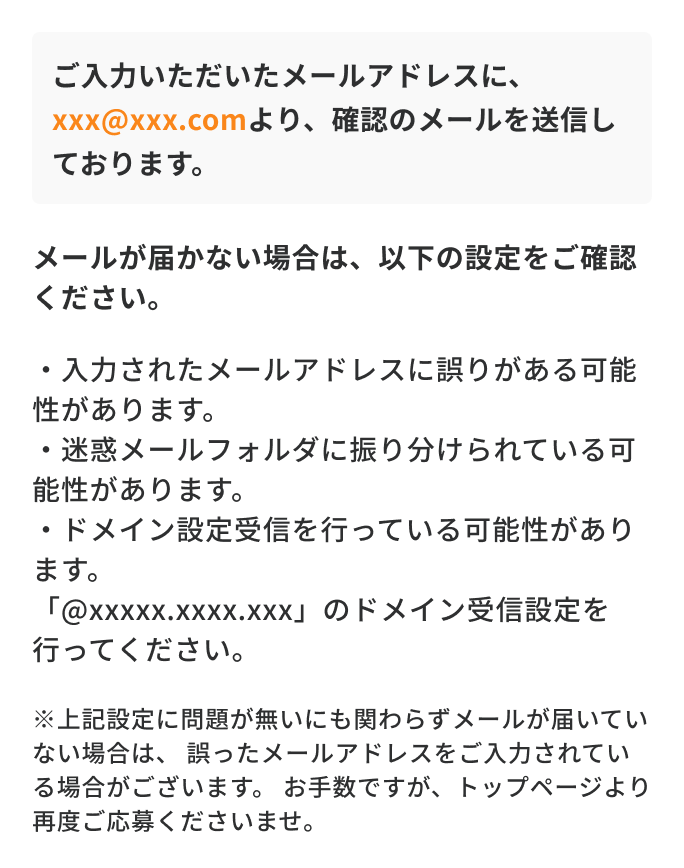
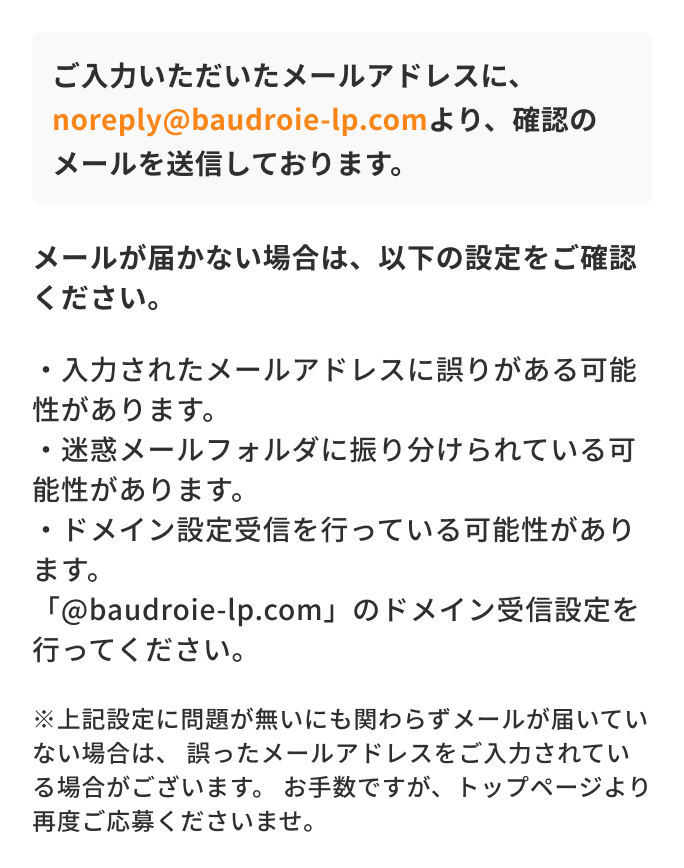
baudroie lp fixed

Changed region(s): [[0.0614, 0.1244, 0.8904, 0.2177], [0.1228, 0.6843, 0.9211, 0.7154]]

diff --git a/src/html/thanks.html b/src/html/thanks.html
@@ -2,23 +2,35 @@
 <html class="no-js" lang="ja">
 
 <head>
+    <!-- Google Tag Manager -->
+    <script>(function(w,d,s,l,i){w[l]=w[l]||[];w[l].push({'gtm.start':
+    new Date().getTime(),event:'gtm.js'});var f=d.getElementsByTagName(s)[0],
+    j=d.createElement(s),dl=l!='dataLayer'?'&l='+l:'';j.async=true;j.src=
+    'https://www.googletagmanager.com/gtm.js?id='+i+dl;f.parentNode.insertBefore(j,f);
+    })(window,document,'script','dataLayer','GTM-TC9M4JZW');</script>
+    <!-- End Google Tag Manager -->
     <meta charset="utf-8">
     <meta http-equiv="X-UA-Compatible" content="IE=edge">
     <meta name="format-detection" content="telephone=no">
     <meta name="viewport" content="width=device-width, initial-scale=1">
     <meta name="keywords" content="">
-    <meta name="description" content="">
-    <title>Baudroie</title>
-    <meta property="og:title" content="">
+    <meta name="description" content="【未経験入社99％！エンジニア募集】株式会社ボードルアのエンジニア採用特設サイト。社員の99%が未経験スタート！20代が活躍できる充実の研修制度と、年間休日125日以上、月平均残業9hなど働きやすい環境が整っています。">
+    <title>20代・未経験からITエンジニアへ！株式会社ボードルア 採用特設サイト</title>
+    <meta property="og:title" content="20代・未経験からITエンジニアへ！株式会社ボードルア 採用特設サイト">
     <meta property="og:url" content="">
     <meta property="og:image" content="./assets/img/ogp.png">
-    <meta property="og:description" content="">
+    <meta property="og:description" content="【未経験入社99％！エンジニア募集】株式会社ボードルアのエンジニア採用特設サイト。社員の99%が未経験スタート！20代が活躍できる充実の研修制度と、年間休日125日以上、月平均残業9hなど働きやすい環境が整っています。">
     <meta property="og:type" content="website">
     <meta name="twitter:card" content="summary_large_image">
     <!--#include virtual="./style.html" -->
 </head>
 
 <body>
+    <!-- Google Tag Manager (noscript) -->
+    <noscript><iframe src="https://www.googletagmanager.com/ns.html?id=GTM-TC9M4JZW"
+    height="0" width="0" style="display:none;visibility:hidden"></iframe></noscript>
+    <!-- End Google Tag Manager (noscript) -->
+
     <!--#include virtual="./header.html" -->
 
     <div class="c-sidebar">
@@ -28,43 +40,43 @@
                 <ul class="c-contents-menu__list">
                     <li class="c-contents-menu__item">
                         <span class="c-contents-menu__icon"></span>
-                        <a href="#data" class="c-contents-menu__link">
+                        <a href="./#data" class="c-contents-menu__link">
                             数字で見るボードルアの働く社員
                         </a>
                     </li>
                     <li class="c-contents-menu__item">
                         <span class="c-contents-menu__icon"></span>
-                        <a href="#appeal" class="c-contents-menu__link">
-                            数字で見るボードルアの働く社員
+                        <a href="./#appeal" class="c-contents-menu__link">
+                            ボードルアで働く魅力
                         </a>
                     </li>
                     <li class="c-contents-menu__item">
                         <span class="c-contents-menu__icon"></span>
-                        <a href="#training" class="c-contents-menu__link">
+                        <a href="./#training" class="c-contents-menu__link">
                             未経験から活躍できる研修体制
                         </a>
                     </li>
                     <li class="c-contents-menu__item">
                         <span class="c-contents-menu__icon"></span>
-                        <a href="#interview" class="c-contents-menu__link">
+                        <a href="./#interview" class="c-contents-menu__link">
                             社員インタビュー
                         </a>
                     </li>
                     <li class="c-contents-menu__item">
                         <span class="c-contents-menu__icon"></span>
-                        <a href="#environment" class="c-contents-menu__link">
+                        <a href="./#environment" class="c-contents-menu__link">
                             ボードルアの働きやすい環境
                         </a>
                     </li>
                     <li class="c-contents-menu__item">
                         <span class="c-contents-menu__icon"></span>
-                        <a href="#flow" class="c-contents-menu__link">
+                        <a href="./#flow" class="c-contents-menu__link">
                             採用フロー
                         </a>
                     </li>
                     <li class="c-contents-menu__item">
                         <span class="c-contents-menu__icon"></span>
-                        <a href="#form" class="c-contents-menu__link">
+                        <a href="./#form" class="c-contents-menu__link">
                             応募フォーム
                         </a>
                     </li>
@@ -77,7 +89,7 @@
                 <div class="g-nav_line">
                     <p class="g-nav_line__tit"><img src="./assets/img/img_main_btn.png" alt="未経験OK！こちらからご応募ください！">
                     </p>
-                    <a href="#form" target="_blank" class="g-nav_line__btn">
+                    <a href="./#form" target="_blank" class="g-nav_line__btn">
                         <span>今すぐエントリーする</span>
                     </a>
                 </div>
@@ -132,7 +144,7 @@
                     </div>
                     <div class="g-nav_line">
                         <a href="./" class="g-nav_line__btn">
-                            <span>今すぐエントリーする</span>
+                            <span>トップページに戻る</span>
                         </a>
                     </div>
                 </section>

diff --git a/src/html/index.html b/src/html/index.html
@@ -2,23 +2,35 @@
 <html class="no-js" lang="ja">
 
 <head>
+    <!-- Google Tag Manager -->
+    <script>(function(w,d,s,l,i){w[l]=w[l]||[];w[l].push({'gtm.start':
+    new Date().getTime(),event:'gtm.js'});var f=d.getElementsByTagName(s)[0],
+    j=d.createElement(s),dl=l!='dataLayer'?'&l='+l:'';j.async=true;j.src=
+    'https://www.googletagmanager.com/gtm.js?id='+i+dl;f.parentNode.insertBefore(j,f);
+    })(window,document,'script','dataLayer','GTM-TC9M4JZW');</script>
+    <!-- End Google Tag Manager -->
     <meta charset="utf-8">
     <meta http-equiv="X-UA-Compatible" content="IE=edge">
     <meta name="format-detection" content="telephone=no">
     <meta name="viewport" content="width=device-width, initial-scale=1">
     <meta name="keywords" content="">
-    <meta name="description" content="">
-    <title>Baudroie</title>
-    <meta property="og:title" content="">
+    <meta name="description" content="【未経験入社99％！エンジニア募集】株式会社ボードルアのエンジニア採用特設サイト。社員の99%が未経験スタート！20代が活躍できる充実の研修制度と、年間休日125日以上、月平均残業9hなど働きやすい環境が整っています。">
+    <title>20代・未経験からITエンジニアへ！株式会社ボードルア 採用特設サイト</title>
+    <meta property="og:title" content="20代・未経験からITエンジニアへ！株式会社ボードルア 採用特設サイト">
     <meta property="og:url" content="">
     <meta property="og:image" content="./assets/img/ogp.png">
-    <meta property="og:description" content="">
+    <meta property="og:description" content="【未経験入社99％！エンジニア募集】株式会社ボードルアのエンジニア採用特設サイト。社員の99%が未経験スタート！20代が活躍できる充実の研修制度と、年間休日125日以上、月平均残業9hなど働きやすい環境が整っています。">
     <meta property="og:type" content="website">
     <meta name="twitter:card" content="summary_large_image">
     <!--#include virtual="./style.html" -->
 </head>
 
 <body>
+    <!-- Google Tag Manager (noscript) -->
+    <noscript><iframe src="https://www.googletagmanager.com/ns.html?id=GTM-TC9M4JZW"
+    height="0" width="0" style="display:none;visibility:hidden"></iframe></noscript>
+    <!-- End Google Tag Manager (noscript) -->
+     
     <!--#include virtual="./header.html" -->
 
     <div class="c-sidebar">
@@ -35,7 +47,7 @@
                     <li class="c-contents-menu__item">
                         <span class="c-contents-menu__icon"></span>
                         <a href="#appeal" class="c-contents-menu__link">
-                            数字で見るボードルアの働く社員
+                            ボードルアで働く魅力
                         </a>
                     </li>
                     <li class="c-contents-menu__item">
@@ -95,14 +107,6 @@
 
     <div id="wrapper" class="p-wrapper">
         <div class="p-body">
-
-            <div class="float-btns show_sp">
-                <div class="g-nav_line">
-                    <a href="#form" target="_blank" class="g-nav_line__btn">
-                        <span>今すぐエントリーする</span>
-                    </a>
-                </div>
-            </div>
 
             <main class="page-main">
                 <div class="header_mo show_sp">
@@ -206,16 +210,14 @@
                             <img src="./assets/img/enviroment01.png" alt="年間休日125日以上">
                         </div>
                         <p class="p-envoriment__desc">
-                            <img src="./assets/img/enviroment_desc.png" alt="さらに、ボードルアでは
-イベントや部活動を通じて
-社員同士のつながりも大切にしています！">
+                            <img src="./assets/img/enviroment_desc.png" alt="さらに、ボードルアではイベントや部活動を通じて社員同士のつながりも大切にしています！">
                         </p>
                     </div>
                     <div class="p-envoriment__event">
-                        <img src="./assets/img/enviroment02.png" alt="circle">
+                        <img src="./assets/img/enviroment03.png" alt="event">
                     </div>
                     <div class="p-envoriment__circle">
-                        <img src="./assets/img/enviroment03.png" alt="event">
+                        <img src="./assets/img/enviroment02.png" alt="circle">
                     </div>
 
                 </section>

diff --git a/src/scss/assets/css/_pages/_top.scss b/src/scss/assets/css/_pages/_top.scss
@@ -150,26 +150,6 @@ button {
     }
 }
 
-.float-btns {
-    @include sp {
-        position: fixed;
-        bottom: 0;
-        width: 100%;
-        z-index: 100;
-        display: block;
-        opacity: 1;
-        transition: all .3s;
-
-        .g-nav_line {
-            padding: 0 0 1.6rem;
-        }
-
-        .g-nav_line__btn {
-            top: 0;
-        }
-    }
-}
-
 .hidden {
     opacity: 0 !important;
 }
@@ -536,6 +516,7 @@ button {
     padding: 1.6rem;
     letter-spacing: 0.04em;
     line-height: 100%;
+    color: #333 !important;
 }
 
 .p-form__card .form-question__inputs .input-group__input::-webkit-input-placeholder {

diff --git a/src/static/action.php b/src/static/action.php
@@ -6,16 +6,18 @@
 //   SENDGRID_KEY=SendGridのAPIキー
 //   RECAPTCHA_SECRET_KEY=reCAPTCHA v3のシークレットキー
 // ===================================================
-$site_url       = "https://baudroie-lp.ei-ei-shin.com";           // サイトURL
-$site_name      = "【株式会社ボードルア採用特設サイト】";                   // 会社名
-$from_email     = "noreply@ei-ei-shin.com";           // 送信元メールアドレス
-$from_name      = "【株式会社ボードルア採用特設サイト】";                   // 送信元名
+$site_url       = "http://baudroie-lp.com";           // サイトURL
+$site_name      = "【株式会社ボードルア採用LP】";                   // 会社名
+$from_email     = "noreply@baudroie-lp.com";           // 送信元メールアドレス
+$from_name      = "【株式会社ボードルア採用LP】";                   // 送信元名
 $admin_recipients = [                              // 管理者（通知先）複数設定可
   ["email" => "marke@ei-shin.com", "name" => "管理者"],
-  // ["email" => "admin2@example.com", "name" => "管理者2"],
+  ["email" => "jinji@baudroie.jp", "name" => "管理者2"],
+  ["email" => "r.shinohara@ei-shin.com", "name" => "管理者3"],
+  ["email" => "nina.suzuki@ei-shin.com", "name" => "管理者4"],
 ];
-$mail_subject_admin = "【株式会社ボードルア採用特設サイト】お問い合わせがありました";  // 管理者宛件名
-$mail_subject_user  = "【株式会社ボードルア採用特設サイト】お問い合わせを受け付けました";  // 応募者宛件名
+$mail_subject_admin = "【株式会社ボードルア採用LP】より登録がありました。";  // 管理者宛件名
+$mail_subject_user  = "【株式会社ボードルア採用LP】お問い合わせ完了のご連絡";  // 応募者宛件名
 $thanks_page    = "thanks.html";                   // 送信成功後のリダイレクト先
 // ===================================================
 
@@ -68,8 +70,6 @@ $errors = [];
 // ※ 日本語（ひらがな・カタカナ・漢字）のみ許可。英字も許可する場合は正規表現を修正すること。
 if (empty($_POST['name'])) {
   $errors['name'] = '氏名は必須です。';
-} elseif (!preg_match('/^[\x{3040}-\x{309F}\x{30A0}-\x{30FF}\x{4E00}-\x{9FFF}\x{3400}-\x{4DBF}\s　]+$/u', $_POST['name'])) {
-  $errors['name'] = '氏名はひらがな・カタカナ・漢字で入力してください。';
 }
 
 // 生年月日のバリデーション
@@ -93,9 +93,7 @@ if (empty($tel)) {
 
 // メールアドレスのバリデーション
 $email = $_POST['email'] ?? '';
-if (empty($email)) {
-  $errors['email'] = 'メールアドレスは必須です。';
-} elseif (!filter_var($email, FILTER_VALIDATE_EMAIL)) {
+if (!filter_var($email, FILTER_VALIDATE_EMAIL)) {
   $errors['email'] = 'メールアドレスの形式が不正です。';
 }
 
@@ -146,31 +144,22 @@ foreach ($admin_recipients as $recipient) {
   $notificationEmail->addTo($recipient['email'], $recipient['name']);
 }
 $notificationEmail->addContent("text/plain", "
-お問い合わせがありました。
-内容を確認し、折り返しご連絡をお願いします。
+【株式会社ボードルア採用LP】
+
+下記の内容登録がありました。
+ご確認の上、対応お願いします。
 
 ---------------------------------
-[ 希望の選考 ]
-{$experience}
 
-[ 希望選考 ]
-{$selection}
-
-[ 氏名 ]
-{$name}
-
-[ 生年月日 ]
-{$birthday}
-
-[ 電話番号 ]
-{$tel}
-
-[ メールアドレス ]
-{$email}
+エンジニア経験: {$experience}
+希望の選考: {$selection}
+電話番号: {$tel}
+氏名: {$name}
+生年月日: {$birthday}
+メールアドレス: {$email}
 
 ---------------------------------
-{$site_name}
-{$site_url}
+このメールは {$site_name} ({$site_url}) から送信されました。
 ");
 
 // ===================================================
@@ -183,31 +172,19 @@ $autoReplyEmail->setFrom($from_email, $from_name);
 $autoReplyEmail->setSubject($mail_subject_user);
 $autoReplyEmail->addTo($email, $name);
 $autoReplyEmail->addContent("text/plain", "
-この度は、{$site_name}よりお問い合わせいただき、
-誠にありがとうございます。
+この度は、{$site_name}へ、お問い合わせいただきありがとうございます。
 
+担当者より、登録いただいた連絡先にご連絡いたします。
 下記の内容で受け付けましたので、ご確認ください。
-担当者よりご連絡いたします。
 
 ---------------------------------
 
-[ 希望の選考 ]
-{$experience}
-
-[ 希望選考 ]
-{$selection}
-
-[ 氏名 ]
-{$name}
-
-[ 生年月日 ]
-{$birthday}
-
-[ 電話番号 ]
-{$tel}
-
-[ メールアドレス ]
-{$email}
+エンジニア経験: {$experience}
+希望の選考: {$selection}
+電話番号: {$tel}
+氏名: {$name}
+生年月日: {$birthday}
+メールアドレス: {$email}
 
 ---------------------------------
 
@@ -215,8 +192,7 @@ $autoReplyEmail->addContent("text/plain", "
 ご返信いただいてもお答えできませんのでご了承ください。
 
 ---------------------------------
-{$site_name}
-{$site_url}
+このメールは {$site_name} ({$site_url}) から送信されました。
 ---------------------------------
 ");
 
